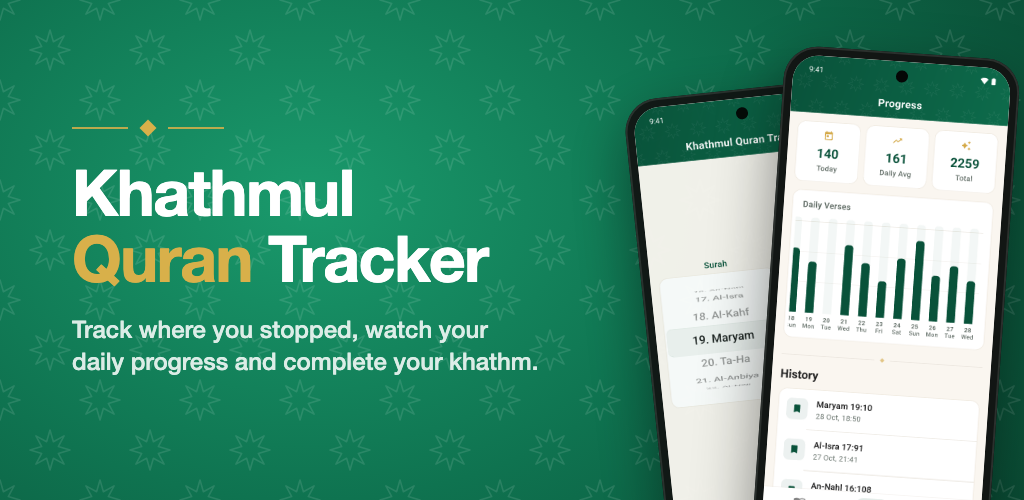
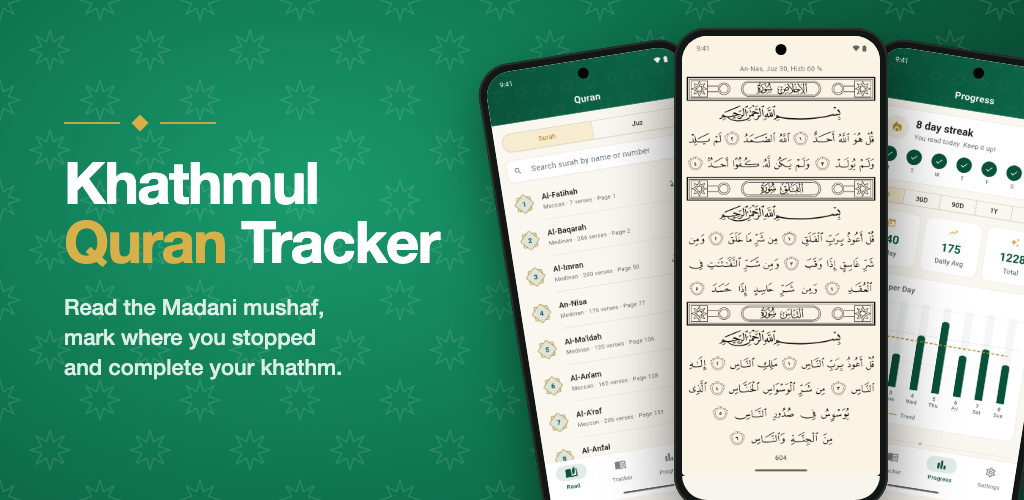
Updated screenshots for quran reader

diff --git a/screenshots/playstore/feature.html b/screenshots/playstore/feature.html
@@ -19,26 +19,30 @@
     position: relative;
   }
   .pattern { position: absolute; inset: 0; opacity: 0.11; }
-  .text { position: absolute; left: 72px; top: 0; bottom: 0; width: 520px;
+  .text { position: absolute; left: 64px; top: 0; bottom: 0; width: 400px;
           display: flex; flex-direction: column; justify-content: center; }
   .divider { display: flex; align-items: center; gap: 14px; }
   .divider span { width: 56px; height: 2px; background: var(--gold); opacity: 0.85; }
   .divider i { width: 12px; height: 12px; background: var(--gold); transform: rotate(45deg); }
-  h1 { margin-top: 26px; font-size: 64px; line-height: 1.02; font-weight: 800; letter-spacing: -1.5px; }
+  h1 { margin-top: 24px; font-size: 58px; line-height: 1.02; font-weight: 800; letter-spacing: -1.5px; }
   h1 em { font-style: normal; color: var(--gold); }
-  p { margin-top: 22px; font-size: 24px; line-height: 1.35; font-weight: 500;
+  p { margin-top: 20px; font-size: 22px; line-height: 1.38; font-weight: 500;
       color: rgba(255, 255, 255, 0.85); text-wrap: balance; }
+  /* Three phones fanned out from a point below the frame: the mushaf in front,
+     the surah index and progress behind it. They run off the bottom edge. */
   .phone {
-    position: absolute; width: 236px; height: 506px;
-    background: #121614; border-radius: 34px; padding: 9px;
-    box-shadow: 0 24px 60px rgba(0, 0, 0, 0.45), inset 0 0 0 2px #2b302d;
+    position: absolute; top: 46px; width: 214px; height: 480px;
+    background: #121614; border-radius: 32px; padding: 8px;
+    box-shadow: 0 22px 54px rgba(0, 0, 0, 0.45), inset 0 0 0 2px #2b302d;
+    transform-origin: 50% 100%;
   }
-  .phone.back  { left: 648px; top: 88px; transform: rotate(-6deg); opacity: 0.96; }
-  .phone.front { left: 768px; top: 52px; transform: rotate(4deg); }
-  .screen { position: relative; width: 100%; height: 100%; border-radius: 26px; overflow: hidden; background: #f8f5ef; }
+  .phone.left   { left: 548px; transform: rotate(-9deg); }
+  .phone.right  { left: 800px; transform: rotate(9deg); }
+  .phone.center { left: 674px; top: 28px; z-index: 1; box-shadow: 0 26px 64px rgba(0, 0, 0, 0.55), inset 0 0 0 2px #2b302d; }
+  .screen { position: relative; width: 100%; height: 100%; border-radius: 25px; overflow: hidden; background: #f8f5ef; }
   .screen img { display: block; width: 100%; height: auto; }
-  .camera { position: absolute; top: 9px; left: 50%; transform: translateX(-50%);
-            width: 12px; height: 12px; border-radius: 50%; background: #050706; }
+  .camera { position: absolute; top: 8px; left: 50%; transform: translateX(-50%);
+            width: 11px; height: 11px; border-radius: 50%; background: #050706; }
 </style>
 </head>
 <body>
@@ -55,10 +59,11 @@
 <div class="text">
   <div class="divider"><span></span><i></i><span></span></div>
   <h1>Khathmul<br><em>Quran</em> Tracker</h1>
-  <p>Track where you stopped, watch your daily progress and complete your khathm.</p>
+  <p>Read the Madani mushaf, mark where you stopped and complete your khathm.</p>
 </div>
 
-<div class="phone back"><div class="screen"><img src="src/1_track.png" alt=""><div class="camera"></div></div></div>
-<div class="phone front"><div class="screen"><img src="src/2_progress.png" alt=""><div class="camera"></div></div></div>
+<div class="phone left"><div class="screen"><img src="src/2_index.png" alt=""><div class="camera"></div></div></div>
+<div class="phone right"><div class="screen"><img src="src/5_progress.png" alt=""><div class="camera"></div></div></div>
+<div class="phone center"><div class="screen"><img src="src/1_read.png" alt=""><div class="camera"></div></div></div>
 </body>
 </html>

diff --git a/screenshots/playstore/template.html b/screenshots/playstore/template.html
@@ -1,6 +1,6 @@
 <!doctype html>
 <!-- Play Store screenshot template. Rendered by render.sh at 1080x1920;
-     the slide is picked by the URL hash (#1, #2, #3). -->
+     the slide is picked by the URL hash (#1 to #6). -->
 <html>
 <head>
 <meta charset="utf-8">
@@ -33,21 +33,22 @@
     font-size: 40px; line-height: 1.3; font-weight: 500;
     color: rgba(255, 255, 255, 0.85);
   }
+  /* Wide phone running off the bottom edge: only its top 75% is in frame. */
   .phone {
-    position: absolute; left: 50%; bottom: 52px; transform: translateX(-50%);
-    width: 600px; height: 1289px;
-    background: #121614; border-radius: 72px; padding: 18px;
+    position: absolute; left: 50%; top: 530px; transform: translateX(-50%);
+    width: 860px; height: 1856px;
+    background: #121614; border-radius: 100px; padding: 26px;
     box-shadow: 0 40px 90px rgba(0, 0, 0, 0.45), inset 0 0 0 3px #2b302d;
   }
   .screen {
     position: relative; width: 100%; height: 100%;
-    border-radius: 56px; overflow: hidden; background: #f8f5ef;
+    border-radius: 76px; overflow: hidden; background: #f8f5ef;
   }
   .screen img { display: block; width: 100%; height: 100%; object-fit: cover; object-position: top; }
   /* The emulator draws the punch-hole camera outside the captured frame. */
   .camera {
-    position: absolute; top: 22px; left: 50%; transform: translateX(-50%);
-    width: 30px; height: 30px; border-radius: 50%; background: #050706;
+    position: absolute; top: 32px; left: 50%; transform: translateX(-50%);
+    width: 42px; height: 42px; border-radius: 50%; background: #050706;
   }
 </style>
 </head>
@@ -79,13 +80,19 @@
 </div>
 
 <script>
-  // Captions match the App Store set in screenshots/appstore/.
+  // Slides 4-6 keep the captions of the App Store set in screenshots/appstore/.
   const slides = {
-    1: { img: 'src/1_track.png', title: 'Never lose<br>your place',
+    1: { img: 'src/1_read.png', title: 'The mushaf,<br>as printed',
+         subtitle: 'Every page of the Madani mushaf, laid out line for line.' },
+    2: { img: 'src/2_index.png', title: 'Find any<br>surah fast',
+         subtitle: 'Search by name or number, or browse by juz.' },
+    3: { img: 'src/3_mark.png', title: 'Mark your<br>place as you read',
+         subtitle: 'Hold a verse to save your progress up to it.' },
+    4: { img: 'src/4_track.png', title: 'Never lose<br>your place',
          subtitle: 'Pick the surah and verse where you stopped, in a single swipe.' },
-    2: { img: 'src/2_progress.png', title: 'Watch your<br>khathm grow',
-         subtitle: 'Daily verses, averages and your full reading history.' },
-    3: { img: 'src/3_reminder.png', title: 'A gentle<br>daily reminder',
+    5: { img: 'src/5_progress.png', title: 'Watch your<br>khathm grow',
+         subtitle: 'Streaks, daily verses and your full reading history.' },
+    6: { img: 'src/6_settings.png', title: 'A gentle<br>daily reminder',
          subtitle: 'Get a nudge to recite the Quran at the time that suits you.' },
   };
   const s = slides[location.hash.slice(1)] || slides[1];
